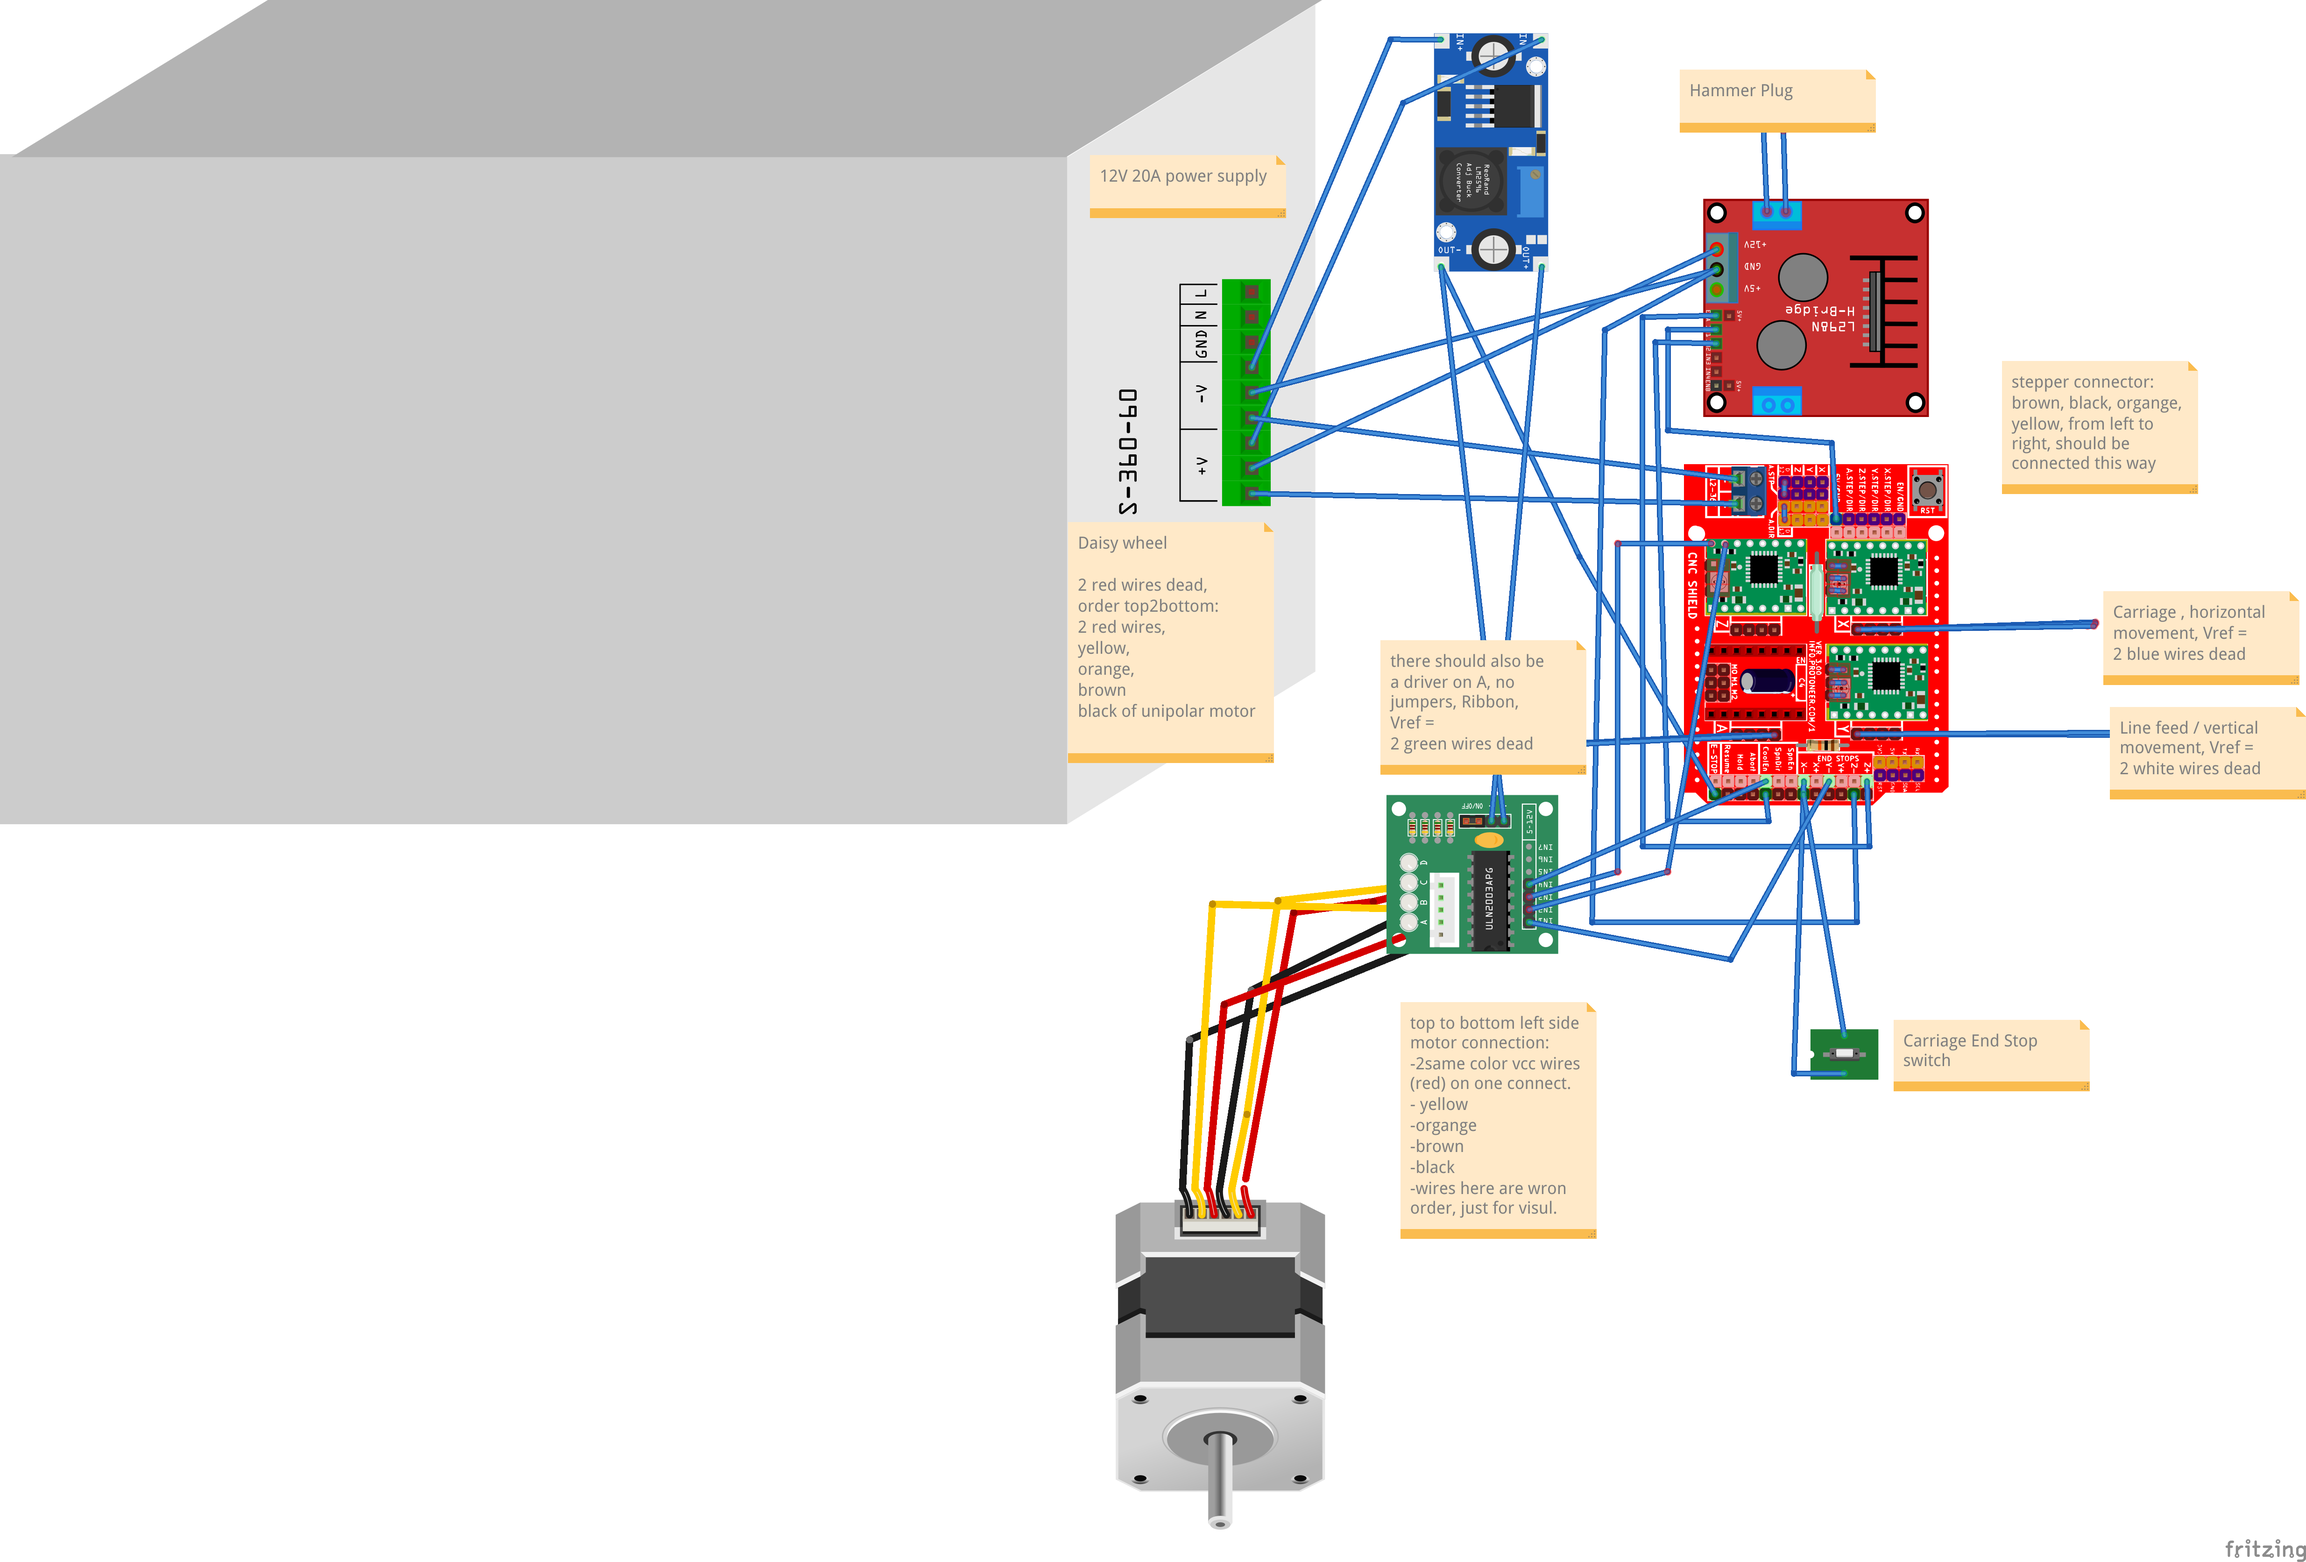
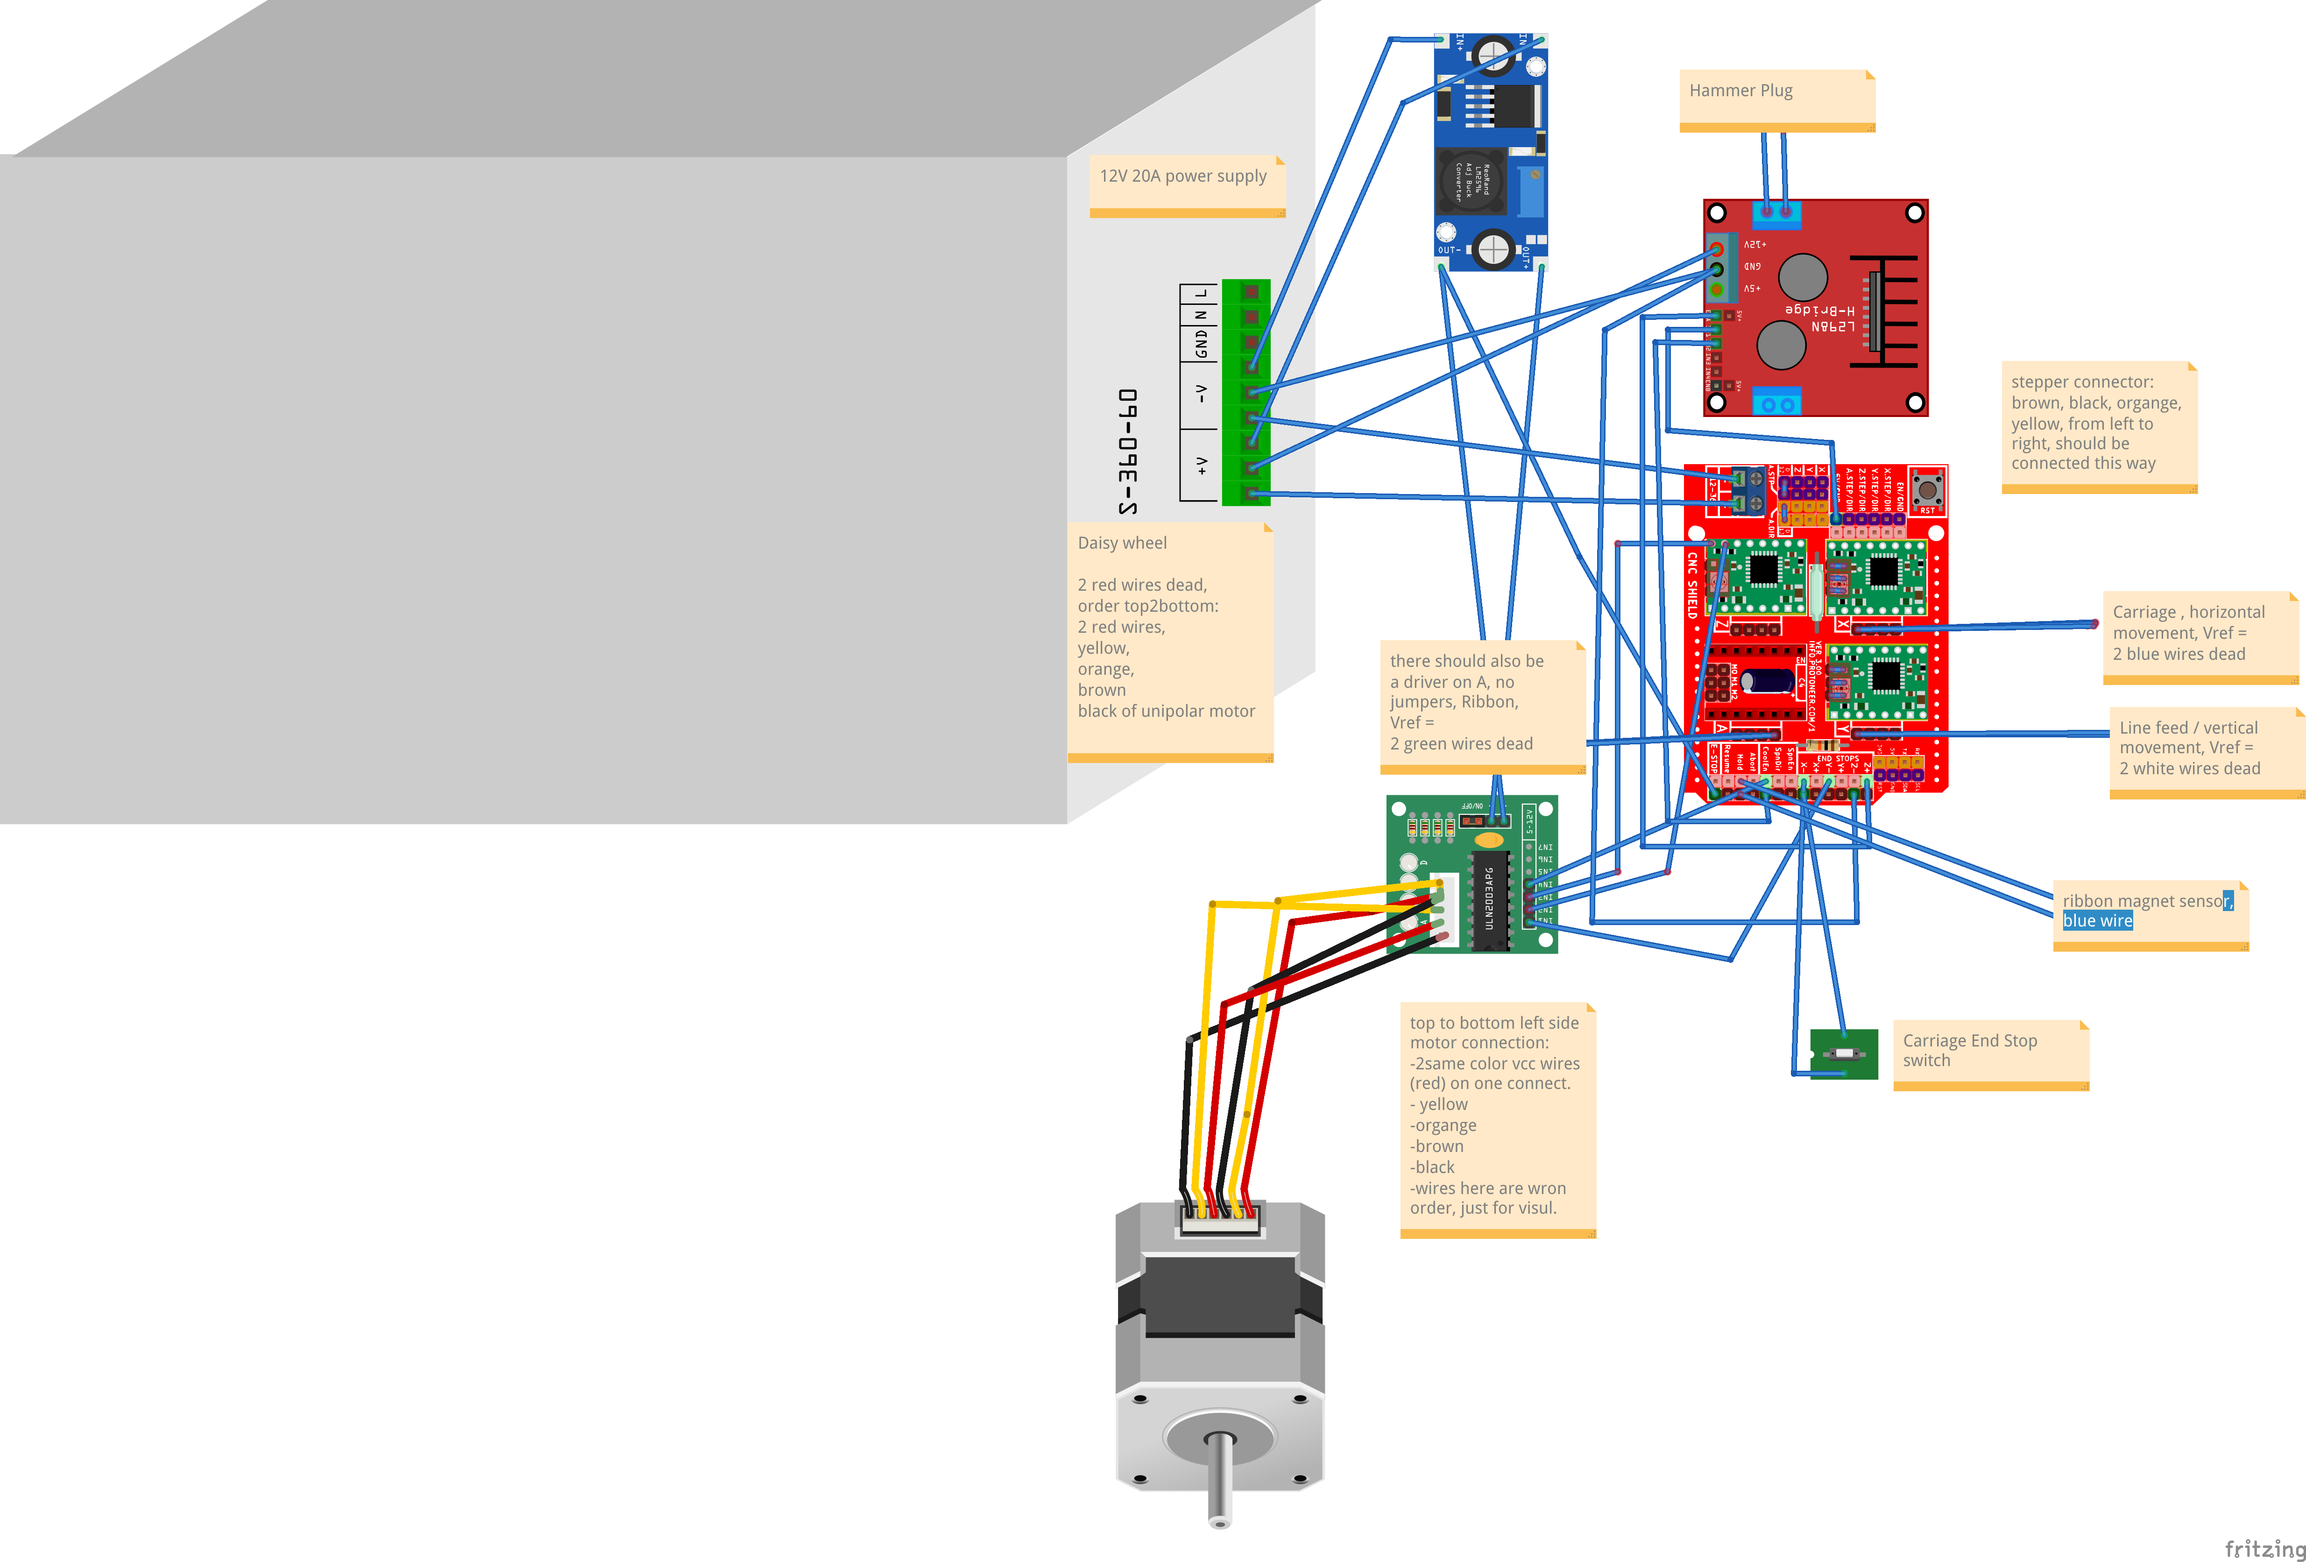
updated wiring imgs and added ribbon sensor

diff --git a/typewriterController/SQ-1000 Controller/src/main.cpp b/typewriterController/SQ-1000 Controller/src/main.cpp
@@ -35,7 +35,7 @@
 //does not have goals, moves always same amount of steps
 #define INCR_SIZE_A (-5*5)
 // pin for ribbon sensor, triggers if ribbon is empty
-#define LIMIT_A_AXIS_PIN -1
+#define LIMIT_A_AXIS_PIN A1
 
 // carriage, horizontal movement
 #define DIR_PIN_X 5
